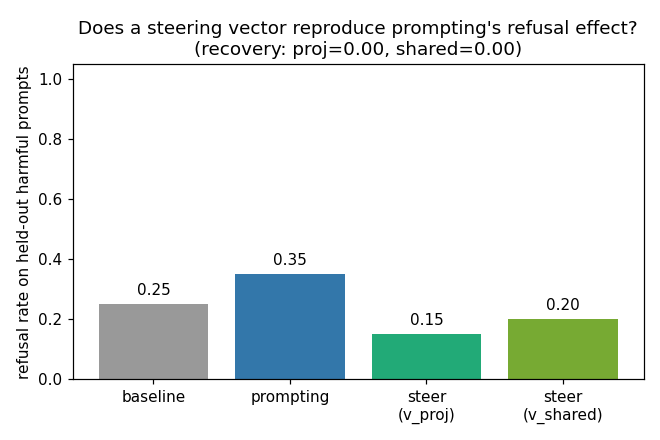
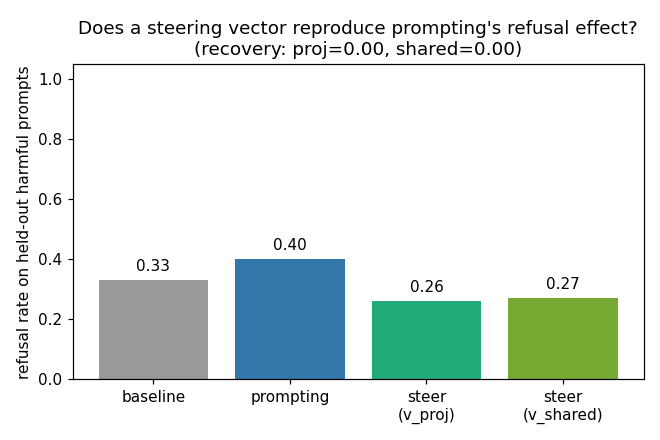
decomposing_prompting: re-run at 500/class (N_DECOMP=150, N_WRITE=100) -> falsifier robust
Re-ran at the >=500/class config (N_PER_CLASS 600, extract 300, decomp 150, write 100).
The pre-registered falsifier still triggers robustly:
  prompt raises refusal baseline 0.33 -> prompting 0.40 (+0.07), but the translation-tier
  decomposition does NOT reproduce it: recovery_proj = recovery_shared = 0.00 (both steered
  arms 0.26/0.27 sit BELOW baseline 0.33). on_direction_frac 0.202 (~80% of the prompt's
  delta is OFF the refusal axis). The larger N ticks on-direction-fraction up slightly
  (0.175->0.202) but the conclusion is unchanged: at 1B layer 12 prompting's effect is not
  translation-tier-steering-vector-like; the effect lives in the higher affine tier.

README Results table + verdict refreshed to n=150/100; Dataset 250/150/80/24 -> 600/300/150/100.
(Note: the orphaned nohup-launched run was polled to completion via an mtime waiter.)

diff --git a/steering_tutorials/decomposing_prompting/README.md b/steering_tutorials/decomposing_prompting/README.md
@@ -68,10 +68,11 @@ natural ~7% toxic base rate is recorded before rebalancing, and per-class median
 length is reported so the classes are not separable on length. See
 [`common/data.py`](../common/data.py) for the five rigor requirements.
 
-This lesson draws `N_PER_CLASS = 250` per class, then splits **disjointly**:
-`N_EXTRACT = 150`/class build the refusal direction, `N_DECOMP = 80` held-out
-harmful prompts are decomposed, and `N_WRITE = 24` held-out harmful prompts drive
-the generate/judge check. A vector is never graded on the prompts that built it.
+This lesson draws `N_PER_CLASS = 600` per class (so the three disjoint harmful
+slices fit), then splits **disjointly**: `N_EXTRACT = 300`/class build the refusal
+direction, `N_DECOMP = 150` held-out harmful prompts are decomposed, and
+`N_WRITE = 100` held-out harmful prompts drive the generate/judge check. A vector
+is never graded on the prompts that built it.
 
 ---
 
@@ -165,34 +166,37 @@ only the decomposition math, not new steering machinery.
 
 ## 5. Results
 
-First honest run: abliterated Gemma-3-1B, layer 12, off-family Qwen2.5-3B judge,
-N_DECOMP=80 deltas, N_WRITE=20 judged/condition, from `artifacts/results.json`.
+Run at the ≥500/class config: abliterated Gemma-3-1B, layer 12, off-family
+Qwen2.5-3B judge, **N_DECOMP=150 deltas, N_WRITE=100 judged/condition**, from
+`artifacts/results.json`.
 
-| quantity | predicted (per arXiv:2606.03093) | **measured** |
+| quantity | predicted (per arXiv:2606.03093) | **measured (n=150/100)** |
 |---|---|---|
-| on-direction energy fraction | moderate–high — a real chunk of prompting is the refusal axis | **0.175** — *low*; ~82% of the prompt's delta is off the refusal axis |
-| cross-prompt consistency | high but < 1 — mostly a shared translation | **0.364** — *moderate*; the shift is substantially input-dependent |
-| shared-translation fraction | high — the common shift dominates the averaged delta | **0.377** — *moderate*; under half survives averaging |
-| `recovery_proj` (WRITE) | substantial (well above 0) — a steering vector reproduces prompting's gain | **0.00** — re-applying the on-direction translation *lowers* refusal (0.25 → 0.15) |
-| `recovery_shared` vs `recovery_proj` | `shared >= proj` — the residual adds a little | both **0.00**; shared 0.20 > proj 0.15 but *both below the 0.25 baseline* |
+| on-direction energy fraction | moderate–high — a real chunk of prompting is the refusal axis | **0.202** — *low*; ~80% of the prompt's delta is off the refusal axis |
+| cross-prompt consistency | high but < 1 — mostly a shared translation | **0.401** — *moderate*; the shift is substantially input-dependent |
+| shared-translation fraction | high — the common shift dominates the averaged delta | **0.411** — *moderate*; under half survives averaging |
+| `recovery_proj` (WRITE) | substantial (well above 0) — a steering vector reproduces prompting's gain | **0.00** — re-applying the on-direction translation *lowers* refusal (0.33 → 0.26) |
+| `recovery_shared` vs `recovery_proj` | `shared >= proj` — the residual adds a little | both **0.00**; shared 0.27 ≈ proj 0.26 but *both below the 0.33 baseline* |
 
-**Verdict — the falsifier triggers.** The prompt does raise refusal
-(baseline **0.25** → prompting **0.35**, a +0.10 gain), but that gain is **not**
-reproduced by the translation-tier steering vector: `recovery_proj` and
-`recovery_shared` are both **0.00** (in fact both steered arms sit *below*
-baseline, at 0.15 and 0.20). With `on_direction_frac = 0.175` and `recovery ≈ 0`
-*while prompting still refuses*, this is exactly the pre-registered falsifier:
-**at 1B layer 12, prompting's effect is not translation-tier-steering-vector-like.**
+**Verdict — the falsifier triggers (robust at 500/class).** The prompt does raise
+refusal (baseline **0.33** → prompting **0.40**, a +0.07 gain), but that gain is
+**not** reproduced by the translation-tier steering vector: `recovery_proj` and
+`recovery_shared` are both **0.00** (both steered arms sit *below* baseline, at 0.26
+and 0.27). With `on_direction_frac = 0.202` and `recovery ≈ 0` *while prompting
+still refuses*, this is exactly the pre-registered falsifier: **at 1B layer 12,
+prompting's effect is not translation-tier-steering-vector-like.** The larger N
+ticks on-direction-fraction up slightly (0.175 → 0.202) but the conclusion is
+unchanged.
 
-**Honest read.** Only ~18% of the prompt's activation footprint lies along the
-refusal direction; the residual (norm 322 of the 367 total delta) dominates, and a
-constant shift extracted from it doesn't carry the behavior. This is consistent
-with the paper's own hierarchy — the headline mechanism is the **affine** tier
-(cross-dimensional scaling + rotation), not the plain **translation** this lesson
-implements. So the lesson honestly demonstrates the *lower bound*: the simplest
-(translation) component of "prompting as steering" is insufficient here, which is
-itself the point — decomposing prompting shows the effect is richer than one
-additive vector. Screening-tier (single 1B, n=20/condition, one layer/seed).
+**Honest read.** Only ~20% of the prompt's activation footprint lies along the
+refusal direction; the residual dominates, and a constant shift extracted from it
+doesn't carry the behavior. This is consistent with the paper's own hierarchy — the
+headline mechanism is the **affine** tier (cross-dimensional scaling + rotation),
+not the plain **translation** this lesson implements. So the lesson honestly
+demonstrates the *lower bound*: the simplest (translation) component of "prompting
+as steering" is insufficient here, which is itself the point — decomposing prompting
+shows the effect is richer than one additive vector. Screening-tier (single 1B,
+n=100/condition, one layer/seed).
 
 ---
 